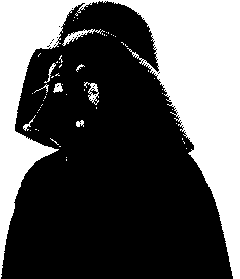
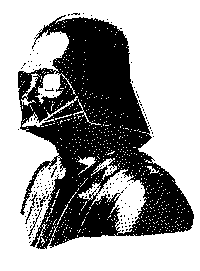
feat: update gallary page and header

diff --git a/src/app/_components/header.tsx b/src/app/_components/header.tsx
@@ -1,57 +1,32 @@
 import Image from "next/image";
-import AsciiArt from "./ascii-art";
 import Link from "next/link";
 
 const Header = () => {
-  const images = ["test2.png", "test3.png", "black-sabbath.png"];
   return (
     <div>
-      <h2 className="text-center justify-center text-2xl md:text-4xl font-bold tracking-tight md:tracking-tighter leading-tight mb-20 mt-8 flex items-center">
+      <div className="text-center justify-center tracking-tight md:tracking-tighter leading-tight mb-8 mt-8 flex items-center">
         <Link href="/" className="justify-center">
           <Image
-            src="darth-vader5.png"
+            src="/death-star2.png"
             alt="logo"
-            width={200}
-            height={200}
+            width={140}
+            height={140}
             className="filter-dark image-pixelated"
           />
-          <br />
-          <Image
-            src="death-star.png"
-            alt="logo"
-            width={200}
-            height={200}
-            className="filter-dark image-pixelated"
-          />
-          <br />
-          {images.map((image) => (
-            <div>
-              <Image
-                src={image}
-                alt={image}
-                width={320}
-                height={320}
-                className="filter-dark image-pixelated"
-              />
-              <br />
-            </div>
-          ))}
-          {/* <AsciiArt fileName="coffee-mug" /> */}
-          <span>nux&nbsp;&nbsp;</span>
+          <h1 className="font-size-2xl font-bold mt-6">BLACK BLOG</h1>
+          <p className="mt-1">An ordinary blog.</p>
         </Link>
-      </h2>
-      <div>
-        <ul>
-          <li>
-            <Link href="/">Posts</Link>
-          </li>
-          <li>
-            <Link href="/projects">Projects</Link>
-          </li>
-          <li>
-            <Link href="/about">About</Link>
-          </li>
-        </ul>
+      </div>
+      <div className="flex items-center justify-center space-x-8">
+        <Link href="/" className="hover:underline">
+          Posts
+        </Link>
+        <Link href="/projects" className="hover:underline">
+          Projects
+        </Link>
+        <Link href="/about" className="hover:underline">
+          About
+        </Link>
       </div>
     </div>
   );

diff --git a/src/app/projects/gallery/page.tsx b/src/app/projects/gallery/page.tsx
@@ -1,3 +1,29 @@
+import fs from "fs";
+import path from "path";
+import Image from "next/image";
+import Container from "@/app/_components/container";
+
 export default function Gallery() {
-  return <div>Gallery</div>;
+  const images = fs.readdirSync(path.join(process.cwd(), "/public/gallery"));
+
+  return (
+    <Container>
+      <h2 className="text-center">Gallery</h2>
+      <div className="flex justify-center mt-8">
+        <div className="grid grid-cols-3 gap-1 max-w-[800px]">
+          {images.map((image) => (
+            <div key={image}>
+              <Image
+                src={`/gallery/${image}`}
+                alt={image}
+                width={200}
+                height={200}
+                className="filter-dark image-pixelated aspect-square object-scale-down"
+              />
+            </div>
+          ))}
+        </div>
+      </div>
+    </Container>
+  );
 }

diff --git a/src/app/page.tsx b/src/app/page.tsx
@@ -1,6 +1,5 @@
 import Container from "@/app/_components/container";
 import { getAllPosts, getBasePath } from "@/lib/api";
-import Header from "./_components/header";
 
 export default function Index() {
   const allPosts = getAllPosts();
@@ -8,9 +7,8 @@ export default function Index() {
   return (
     <main>
       <Container>
-        <Header />
         {allPosts.map((post) => (
-          <div key={post.slug} className="mb-8">
+          <div key={post.slug} className="my-2">
             <a href={`${getBasePath()}/posts/${post.slug}`}>
               <span>
                 {post.title} - {post.date}

diff --git a/src/app/_components/container.tsx b/src/app/_components/container.tsx
@@ -1,9 +1,16 @@
+import Header from "./header";
+
 type Props = {
   children?: React.ReactNode;
 };
 
 const Container = ({ children }: Props) => {
-  return <div className="container mx-auto px-5">{children}</div>;
+  return (
+    <div className="container mx-auto px-5">
+      <Header />
+      <div className="mt-8">{children}</div>
+    </div>
+  );
 };
 
 export default Container;

diff --git a/src/app/projects/page.tsx b/src/app/projects/page.tsx
@@ -1,14 +1,15 @@
 import Link from "next/link";
+import Container from "@/app/_components/container";
 
 export default function Projects() {
   return (
-    <div>
+    <Container>
       <h1>Projects</h1>
       <ul>
         <li>
           <Link href="/projects/gallery">Gallery</Link>
         </li>
       </ul>
-    </div>
+    </Container>
   );
 }

diff --git a/next.config.js b/next.config.js
@@ -7,6 +7,7 @@ const isProd = process.env.NODE_ENV === "production";
 const nextConfig = {
   // Add prefix to all routes in production.
   basePath: isProd ? "/blog" : "",
+  assetPrefix: isProd ? "/blog/" : "",
   output: "export",
   distDir: "dist",
   images: {
